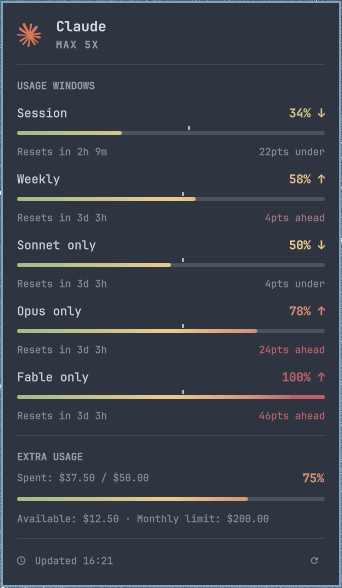
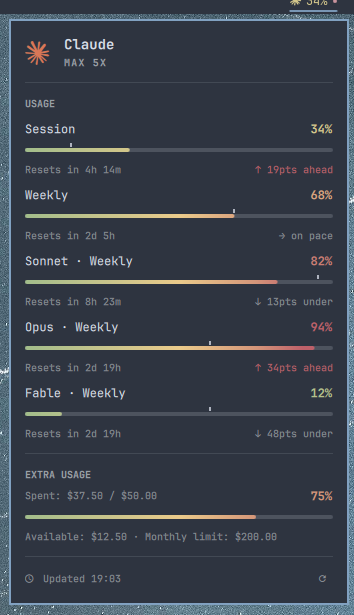
tooltip: the frame goes, and the one that stays pins its font
The tooltip was drawn two ways for the same content. --frame's box was
the second: more code, more documentation, more screenshots — and it only
lined up when the pinned font was a complete Mono Nerd Font. The Arch
package ttf-jetbrains-mono-nerd does NOT ship that family, so the default
fell back to the system's proportional font without saying so and the box
came out ragged.

One shape stays, and it pins the font. The pin is not decoration: the
rules are made of ─, which in a proportional font is nearly twice as wide
as a letter, so the tooltip sized itself to the rules and grew a dead
margin to the right of the text — 530px of box for 370px of content.
Waybar draws the tooltip in a GTK window that IGNORES font-family from
CSS (tested: five selector variants and gtk-font-name, none of them
work), so the markup is the only place this can be said.

The default font is a LIST of families, not one name: Pango tries them in
order and falls through to the next when one is not installed. That way a
family name that does not exist stops being a silent trap.

--frame and --frame-font are still accepted so an existing config keeps
working: --frame does nothing, --frame-font is an alias for the new
--tooltip-font. Both are marked deprecated in the header, with the why.

Changed region(s): [[0.0, 0.0, 1.0, 1.0]]

diff --git a/README.md b/README.md
@@ -3,16 +3,26 @@
 [![AUR version](https://img.shields.io/aur/version/claudebar)](https://aur.archlinux.org/packages/claudebar)
 [![License: MIT](https://img.shields.io/badge/license-MIT-green.svg)](LICENSE)
 
-claudebar is a Waybar widget that shows how much of your Claude AI plan you have used. It shows the session limit, the weekly limit and the per-model limits. Each one has a progress bar, a color for the level of use, and the time until it resets.
+claudebar shows how much of your Claude AI plan you have used, in [Waybar](https://github.com/Alexays/Waybar) and in the [Omarchy](https://omarchy.org) shell. It shows the session limit, the weekly limit and the per-model limits. Each one has a progress bar, a color for the level of use, and the time until it resets.
 
-<p align="center">
-  <img src="screenshots/waybar-bar.png" alt="claudebar in Waybar" width="144">
-</p>
+The same core drives both frontends, so a number reads the same on either one:
 
-<p align="center">
-  <em>A compact line in your bar. Move the pointer onto it to see all the limits:</em><br><br>
-  <img src="screenshots/waybar-tooltip.png" alt="claudebar tooltip" width="468">
-</p>
+| The Omarchy shell plugin | The Waybar module |
+| :---: | :---: |
+| <img src="screenshots/omarchy-desktop.png" alt="claudebar in the Omarchy shell: the bar face and the usage panel"> | <img src="screenshots/waybar-desktop.png" alt="claudebar in Waybar: the bar face and the tooltip"> |
+
+## Contents
+
+- [Features](#features)
+- [Requirements](#requirements)
+- [Installation](#installation)
+- [Quick start](#quick-start)
+- [Omarchy shell plugin](#omarchy-shell-plugin)
+- [Configuration](#configuration)
+- [Structured JSON output](#structured-json-output)
+- [How it works](#how-it-works)
+- [Troubleshooting](#troubleshooting)
+- [Related](#related)
 
 ## Features
 
@@ -92,16 +102,21 @@ Add the module to your `~/.config/waybar/config.jsonc` file:
 
 Run `claudebar --help` for the full reference: the usage line, every flag, and the format placeholders.
 
+<p align="center">
+  <img src="screenshots/waybar-bar.png" alt="claudebar in Waybar" width="144">
+</p>
+
+<p align="center">
+  <em>A compact line in your bar. Move the pointer onto it to see all the limits:</em><br><br>
+  <img src="screenshots/waybar-tooltip.png" alt="The claudebar tooltip, with one bar for each limit" width="468">
+</p>
+
 > [!WARNING]
 > The OAuth usage endpoint and the prepaid-credit endpoint are not documented. The usage endpoint has strict rate limits. An interval of less than 300 seconds will usually cause HTTP 429 errors. Errors are also possible at 300 seconds if the Anthropic service has a problem. If this occurs, the widget shows the data from the cache with a `` pause sign. If the balance is not available, the widget shows it as unknown. It does not show the monthly limit in its place. Refer to [claude-code#30930](https://github.com/anthropics/claude-code/issues/30930).
 
 ## Omarchy shell plugin
 
 claudebar also has a native plugin for the Quickshell bar of the [Omarchy](https://omarchy.org) shell. The plugin is in the `omarchy/` directory of this repository. The bar shows the Claude glyph and a short usage percentage. A click opens a panel with one section for each limit. The footer of the panel ends with a refresh control (), next to the time of the last update. The control stays disabled while a fetch runs.
-
-<p align="center">
-  <img src="screenshots/omarchy-desktop.png" alt="claudebar in the Omarchy bar, with its panel open" width="960">
-</p>
 
 <p align="center">
   <img src="screenshots/omarchy-panel.png" alt="The claudebar panel in the Omarchy shell" width="342">
@@ -115,7 +130,7 @@ Each meter paints a color gauge along its full length and fills it up to the cur
   <img src="screenshots/omarchy-bar.png" alt="The claudebar widget in the Omarchy bar" width="68">
 </p>
 
-A small dot appears next to the percentage when a limit that is *not* on the bar becomes critical (90% or more). Thus a per-model limit that is almost full still gets your attention while the bar shows a comfortable session number. Move the pointer onto the widget and a tooltip gives the name of that limit, for example `Fable only: 100%`. When there is no dot, there is no tooltip, and the panel stays the full view of the data.
+A small dot appears next to the percentage when a limit that is *not* on the bar becomes critical (90% or more). Thus a per-model limit that is almost full still gets your attention while the bar shows a comfortable session number. Move the pointer onto the widget and a tooltip gives the name of that limit, for example `Fable · Weekly: 100%`. When there is no dot, there is no tooltip, and the panel stays the full view of the data.
 
 Mouse and keyboard controls:
 
@@ -125,6 +140,13 @@ Mouse and keyboard controls:
 | Middle click | Get new data now. This ignores the 60-second cache. |
 | Right click | Open the claude.ai usage page |
 | `r` or Enter, in the panel | Get new data now |
+
+The plugin also answers the shell's IPC, so a keybind or a script can drive it without the mouse:
+
+```bash
+qs ipc call mryll.claudebar toggle    # open or close the panel
+qs ipc call mryll.claudebar refresh   # fetch now, without opening anything
+```
 
 ### Install the plugin
 
@@ -453,7 +475,7 @@ If 30% of the session time has passed, an even use is 30% of the quota. The scri
 | Fully even | 50% | 50% | on the pace | → |
 | Slow use | 70% | 30% | 57% under | ↓ |
 
-The default band is **±5%**. A difference of 5% or less shows as "on track". Change the band with `--pace-tolerance`:
+The default band is **±5%**. A difference of 5% or less shows as "on pace". Change the band with `--pace-tolerance`:
 
 ```bash
 # More sensitive (±2%) — flags smaller deviations
@@ -463,7 +485,7 @@ claudebar --pace-tolerance 2
 claudebar --pace-tolerance 10
 ```
 
-The `{session_pace_pct}` and `{weekly_pace_pct}` placeholders show the difference, for example "12% ahead", "5% under" or "on track".
+The `{session_pace_pct}` and `{weekly_pace_pct}` placeholders show the difference, for example "12% ahead", "5% under" or "on pace".
 
 #### Pace in points
 
@@ -609,11 +631,12 @@ The script keeps the API response in `~/.cache/claudebar/usage.json` for 60 seco
 
 ## Related
 
-- [codexbar](https://github.com/mryll/codexbar) — OpenAI Codex usage widget for Waybar
-- [logibar](https://github.com/mryll/logibar) — Logitech battery widgets for Waybar
-- [meteobar](https://github.com/mryll/meteobar) — Weather widget for Waybar (Open-Meteo)
-- [tickerbar](https://github.com/mryll/tickerbar) — Multi-market price ticker for Waybar (crypto, stocks, forex)
-- [ClaudeBar](https://github.com/andresreibel/ClaudeBar) — Similar widget in TypeScript and Bun
-- [waybar-ai-usage](https://github.com/NihilDigit/waybar-ai-usage) — Claude and Codex monitor (Python, uses browser cookies)
-- [Omarchy](https://github.com/basecamp/omarchy) — Beautiful, modern and opinionated Linux distribution
-- [Waybar](https://github.com/Alexays/Waybar) — Status bar for Wayland compositors
+- [codexbar](https://github.com/mryll/codexbar) — OpenAI Codex subscription usage
+- [logibar](https://github.com/mryll/logibar) — the battery of Logitech devices
+- [meteobar](https://github.com/mryll/meteobar) — the weather, from Open-Meteo
+- [printbar](https://github.com/mryll/printbar) — any printer: supplies, trays and queue
+- [tickerbar](https://github.com/mryll/tickerbar) — prices of crypto, stocks, indices, commodities and forex
+- [ClaudeBar](https://github.com/andresreibel/ClaudeBar) — a similar widget in TypeScript and Bun
+- [waybar-ai-usage](https://github.com/NihilDigit/waybar-ai-usage) — a Claude and Codex monitor in Python, which uses browser cookies
+- [Omarchy](https://github.com/basecamp/omarchy) — the Linux setup for these widgets
+- [Waybar](https://github.com/Alexays/Waybar) — the status bar for Wayland
